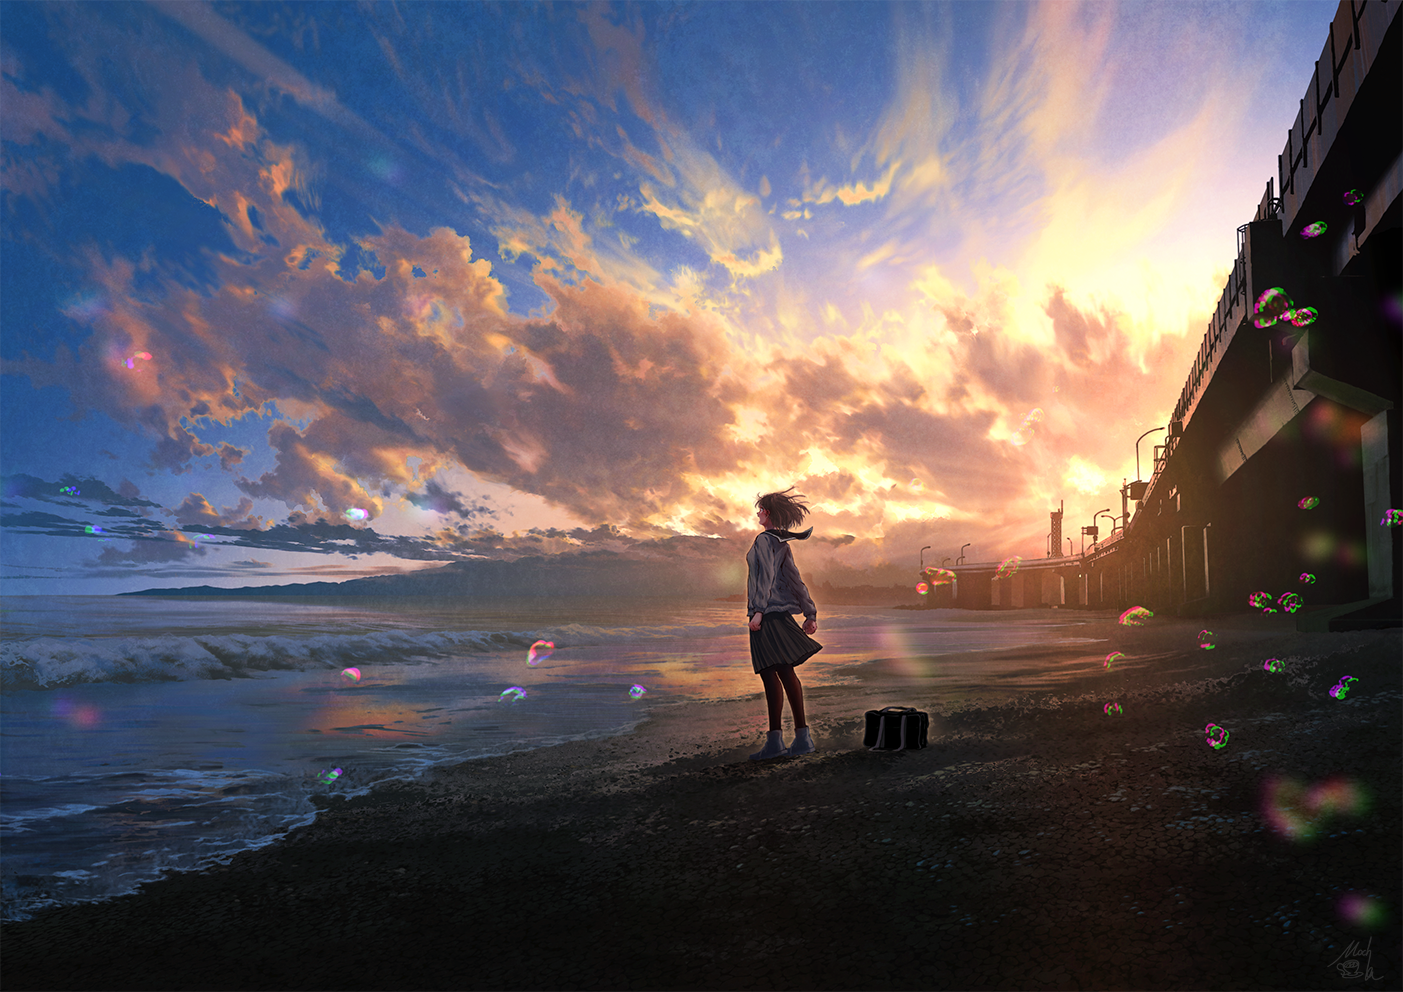
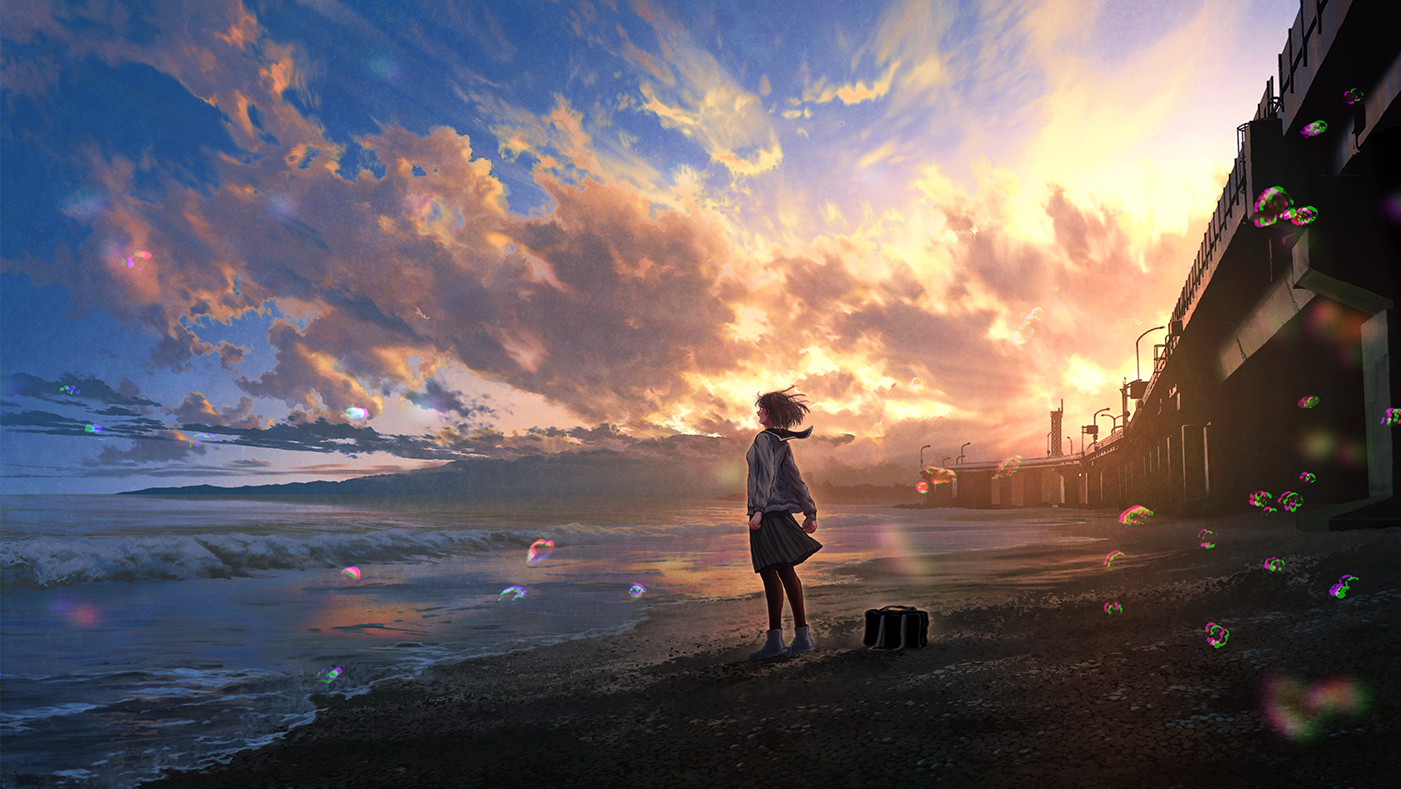
背景裁减

diff --git a/src/component/navigation/navigation.js b/src/component/navigation/navigation.js
@@ -22,7 +22,8 @@ class Navigation extends React.Component {
             backgroundList:[{bg: require('./img/1.png')},{bg: require('./img/2.png')},{bg: require('./img/3.png')},{bg: require('./img/4.png')}],
             offsetheight:document.documentElement.clientHeight,
             nowIndex:0,           //当前在第几页
-            fullPageSlide:false,   
+            fullPageSlide:false,
+            timer: null
         }
         this.reSearchShow = this.reSearchShow.bind(this)
         this.reSearchHide = this.reSearchHide.bind(this)
@@ -41,13 +42,14 @@ class Navigation extends React.Component {
         })
     }
     bgScroll() {
+        if (this.timer != null) return;
         (this.state.nowIndex < this.state.backgroundList.length - 1) ?
-        this.setState({
-            nowIndex: this.state.nowIndex + 1
-        }) :
-        this.setState({
-            nowIndex: 0
-        })
+        this.setState({nowIndex: this.state.nowIndex + 1}) :
+        this.setState({nowIndex: 0})     
+        this.timer = setTimeout(()=> {
+            clearTimeout(this.timer)
+            this.timer = null
+        },1000) 
     }
     render() {    
         const navContain = this.state.backgroundList.map((item, index) => 

diff --git a/src/App-body.js b/src/App-body.js
@@ -4,6 +4,7 @@ import './App.css';
 
 import Gallery from './component/gallery/gallery.js'
 import Navigation from './component/navigation/navigation.js'
+import Info from './component/info/info.js'
 
 import {
 	Switch,
@@ -22,6 +23,9 @@ function AppBody() {
             </Route>
             <Route path="/b">
                 <Gallery name={query.get("name")}></Gallery>
+            </Route>
+            <Route path="/c">
+                <Info></Info>
             </Route>
         </Switch>	
 

diff --git a/src/component/info/info.js b/src/component/info/info.js
@@ -1,0 +1,15 @@
+import React from 'react'
+
+class Info extends React.Component {
+    constructor(props) {
+        super(props)
+        this.state = {}
+    }
+    render() {
+        return (
+            <div>info</div>
+        )
+    }
+}
+
+export default Info
